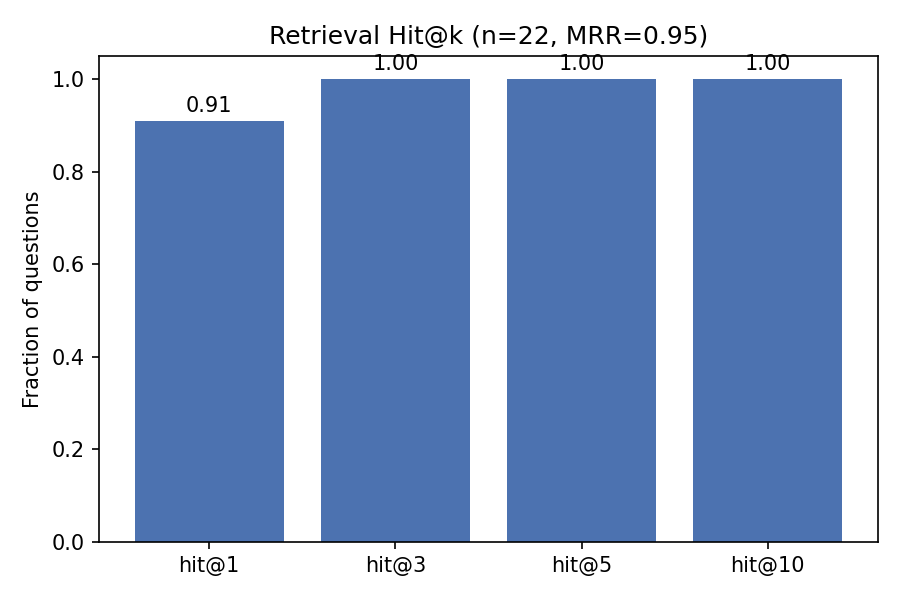
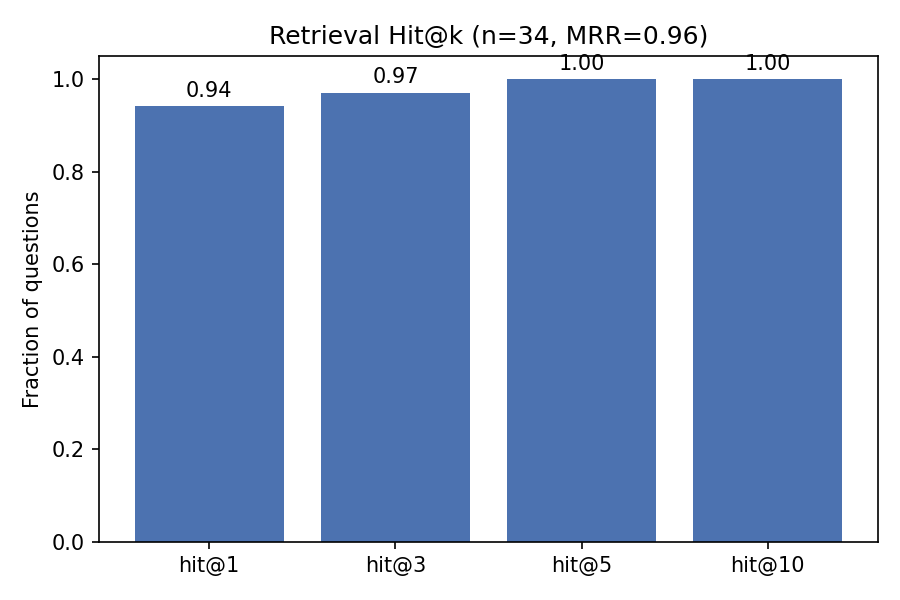
Add README with results, experiment log and enterprise roadmap

diff --git a/README.md b/README.md
@@ -1,3 +1,225 @@
 # Manual RAG Assistant
 
-Cited question answering over instruction manuals. Work in progress.
+**Upload an instruction manual, ask a question in plain English, and get the answer with the exact page, section and lines it came from. No need to read the whole manual.**
+
+![Python](https://img.shields.io/badge/python-3.10%2B-blue)
+![Tests](https://img.shields.io/badge/tests-82%20passing-brightgreen)
+![License](https://img.shields.io/badge/license-MIT-green)
+
+---
+
+## Demo
+
+Real output for the GE JVM3160 microwave manual (46 pages, English and Spanish):
+
+```
+$ python main.py ask "One of the lights below the oven is not working. How do I make it work?" \
+      --file data/raw/ge_microwave_jvm3160.pdf
+
+Using: ge_microwave_jvm3160.pdf (GE JVM3160 Microwave Oven)
+
+**Answer:** To restore the light below the oven, replace the cooktop light/nite light bulb.
+The manual specifies a 120 volt, 50 watt (max.) halogen bulb.
+
+**Location in Manual:**
+- Manual: ge_microwave_jvm3160.pdf (GE JVM3160 Microwave Oven)
+- Page: 17
+- Section: Cooktop Light/Nite Light
+- Lines: 5-13
+
+**Steps:**
+1. Disconnect the power at the main fuse or circuit breaker panel, or pull the plug.
+2. Remove the screw from the side of the light compartment cover and lower the cover until it stops.
+3. Be sure the bulb is cool before removing. Break the adhesive seal by gently unscrewing the bulb.
+4. Screw in the new bulb, then raise the light cover and replace the screw. Connect electrical power to the oven.
+```
+
+The question never says "cooktop", "nite light" or "bulb". Retrieval works on meaning, so it still ranks the right section first.
+
+And when the manual doesn't have the answer, it says so instead of inventing one:
+
+```
+$ python main.py ask "How do I connect this microwave to WiFi?"
+The manual does not cover this.
+```
+
+## Two modes: today and the enterprise path
+
+| | Mode 1: Ad hoc (built and verified) | Mode 2: Library (designed for, partly built) |
+|---|---|---|
+| Use case | One person, one manual, answers right now | A team with ~200 domain PDFs (manuals, SOPs, service guides) |
+| How documents get in | Upload in the web app, or `--file` on the CLI | Bulk ingest a folder: `ingest --path docs/` |
+| What gets searched | Only that manual | The whole library, or filtered by manual |
+| Limits | 50 pages, text based (keeps the demo fast and cheap) | No page limit for curated ingestion |
+| Status | ✅ Working end to end | ✅ Folder ingest, incremental re-indexing, per-manual citations, cross-manual evaluation. See the roadmap for what scale needs. |
+
+## How it works
+
+```mermaid
+flowchart LR
+    A[Manual<br/>PDF, scan, DOCX, EPUB, TXT] --> B[Extract to Markdown<br/>pymupdf4llm + Tesseract OCR]
+    B --> C[Clean<br/>broken glyphs, footers,<br/>page numbers, TOC lines]
+    C --> D[Chunk by section<br/>keep page + lines]
+    D --> E[Label each chunk<br/>with product name]
+    E --> F[(ChromaDB<br/>MiniLM embeddings)]
+    Q[Question] --> G[Top 5 chunks<br/>from that manual]
+    F --> G
+    G --> H[LLM: answer only from context,<br/>cite manual, page, section, lines]
+    H --> I[Cited answer]
+```
+
+1. **Extract.** Each page becomes Markdown with `pymupdf4llm`. Scanned pages and pages with broken fonts are OCR'd with Tesseract.
+2. **Clean.** Remove undecodable glyphs, markup, repeated footers, page numbers and table of contents lines. These are detected generically, so nothing is hardcoded per manual.
+3. **Chunk by structure.** A new chunk starts at each heading, so numbered steps stay together. Every chunk keeps its page, section and line range, which is what makes exact citations possible.
+4. **Label every chunk with its product.** At upload, the LLM reads the first pages once and names the product (e.g. "MR. Coffee 4-cup CoffeeMaker"). That name is prefixed to every chunk before embedding (contextual retrieval).
+5. **Retrieve.** `all-MiniLM-L6-v2` embeddings in a persistent ChromaDB collection. Unchanged files are skipped on re-ingest using a file hash.
+6. **Answer.** The top 5 chunks go to `nvidia/nemotron-3.5-lightning-30b-a3b` (via NVIDIA NIM, with a fallback model). The prompt requires answers only from the context, real citations, steps only when the manual gives steps, and a one sentence refusal when the answer isn't there.
+
+## Results
+
+Retrieval evaluated on **34 hand labelled questions** across **2 manuals** (GE microwave, Mr. Coffee coffeemaker), in two modes:
+
+| Metric | Within the question's manual | Across all manuals (right manual + page) |
+|---|---|---|
+| Hit@1 | **0.94** | **0.94** |
+| Hit@3 | 0.97 | 0.97 |
+| Hit@5 | **1.00** | **1.00** |
+| MRR | **0.96** | **0.96** |
+
+Hit@5 = 1.00 means the right page was always among the 5 chunks the LLM reads.
+
+![Retrieval Hit@k within manual](reports/figures/retrieval_hit_at_k.png)
+![Retrieval Hit@k across manuals](reports/figures/retrieval_hit_at_k_all_manuals.png)
+
+**Answer behaviour checks** (run after every prompt or model change): real steps kept word for word (bulb replacement), no invented steps when the manual lists causes (arcing), a clean refusal for out of scope questions (WiFi), and no facts crossing between products when two manuals match (warranty).
+
+**Speed:** about **4 seconds** per answer, down from about 28 seconds (see the experiment log).
+
+## Experiment log
+
+Every change was measured against the same evaluation set. Not everything worked, and that's recorded too.
+
+| # | Hypothesis / change | Result |
+|---|---|---|
+| 1 | **Original notebook bug:** short numbered steps like `1. Press Cook Time.` were detected as headings, which removed them from the indexed text | Fixed with stricter heading rules plus a regression test |
+| 2 | Broken font glyphs, `<mark>` tags and repeated footers dilute embeddings | Text is much cleaner; ranking roughly unchanged |
+| 3 | Baseline with 2 manuals | Hit@1 **0.85** within / **0.82** across, MRR 0.91 / 0.89 |
+| 4 | Table of contents pages attract every question ("keyword magnets") | **Disproved.** No change. The first version of the fix didn't even fire, because the TOC was extracted as a Markdown table; caught by checking the real extracted text |
+| 5 | The real cause: chunks say "this product", not the product name, so "coffee maker warranty" matched the intro page instead of the warranty page | **Confirmed.** Labelling every chunk with its product: Hit@1 **0.85 → 0.94** within, **0.82 → 0.94** across, MRR 0.91 → 0.96 |
+| 6 | Were the labels leaking answers? The title prompt's examples were the two test manuals | Swapped to unrelated examples; scores held at 0.94 |
+| 7 | Prompt template always showed a "Steps" section, so the model invented remedies for a list of causes | Rules: steps only when the manual gives them, never invent advice. Regression test added |
+| 8 | Ambiguous question matching two manuals: the reasoning model spent its entire token budget deliberating and returned nothing | Clear rule (one block per manual), larger token budget, and a guard so a blank answer never reaches users |
+| 9 | Reasoning makes answers slow (~28s). Tested 4 ways to turn it off on one question | Only `enable_thinking: false` worked: **27.8s → 4.1s**. `/no_think` and "low effort" were ignored by this model |
+| 10 | With reasoning off, a two-manual answer cited a coffee maker fact under the microwave | Code now groups chunks by manual before the LLM sees them. Regression test with the real case |
+| 11 | With reasoning off, the product title for a scanned cover was guessed ("12-Cup Programmable" for a 4-cup model) | Reasoning kept on for the one-time title step only, and the prompt forbids guessing model numbers |
+
+## Why RAG instead of pasting the whole manual into an LLM?
+
+| | Paste the whole manual | RAG (this project) |
+|---|---|---|
+| 10 page manual | Works | Works |
+| 500 page manual | Slow and costly on every question; quality drops in long contexts | Only ~5 relevant chunks are sent |
+| Exact citations (page, section, lines) | The model has to guess | Come from stored metadata |
+| A library of 200 documents | You have to know which one to paste | It finds the right one |
+| Cost per question | Grows with document size | Roughly constant |
+
+## Quick start
+
+```bash
+git clone https://github.com/jasferdavidgabriel/manual_rag_assistant.git
+cd manual_rag_assistant
+python -m venv .venv && source .venv/bin/activate
+pip install -r requirements.txt
+
+cp .env.example .env        # add your NVIDIA_API_KEY (free at build.nvidia.com)
+# For scanned PDFs: brew install tesseract  (macOS)  or  apt install tesseract-ocr  (Linux)
+```
+
+**Ad hoc (Mode 1): one manual, ask right away**
+
+```bash
+python main.py ask "How do I clean it with vinegar?" --file path/to/manual.pdf
+python main.py ask "How often should I descale it?"      # continues with the same manual
+python main.py chat --file path/to/manual.pdf           # interactive
+```
+
+**Web app**
+
+```bash
+python app.py            # http://127.0.0.1:7860
+python app.py --share    # temporary public link (e.g. from Colab)
+```
+Upload a manual, wait for "Ready", then ask. Answers are scoped to the manual you uploaded in your session, and the sources behind each answer are one click away.
+
+**Library (Mode 2): many manuals**
+
+```bash
+python main.py ingest --path docs/                  # index a folder (unchanged files are skipped)
+python main.py list                                 # what's indexed
+python main.py ask "What is the warranty?" --all    # search every manual
+python main.py search "error code E3" --all         # retrieval only, no LLM (debugging)
+```
+
+**Evaluate and test**
+
+```bash
+python main.py evaluate      # Hit@k and MRR, within and across manuals; saves charts
+pip install pytest && python -m pytest tests -q
+```
+
+All settings (models, chunk size, top k, page limits, the reasoning switch) live in [`configs/config.yaml`](configs/config.yaml). Any OpenAI compatible endpoint works by changing `llm.base_url` and `llm.model`.
+
+## Project structure
+
+```
+manual_rag_assistant/
+├── app.py                    # Gradio web app (one manual per session)
+├── main.py                   # CLI: ingest, list, search, ask, chat, evaluate
+├── configs/config.yaml       # every tunable setting
+├── src/manual_rag/
+│   ├── ingestion.py          # extraction per format, cleaning, chunking, labels
+│   ├── indexing.py           # embeddings + persistent ChromaDB
+│   ├── retrieval.py          # search with similarity scores and manual filter
+│   ├── generation.py         # prompt, grouping by manual, LLM with fallbacks
+│   ├── evaluation.py         # Hit@k, MRR, charts
+│   ├── pipeline.py           # ingest / ask / evaluate / ad hoc file handling
+│   └── ui.py                 # upload checks (page limit, mostly-images) and formatting
+├── tests/                    # 82 unit tests, no GPU, model or API key needed
+├── data/eval/questions.jsonl # 34 labelled evaluation questions
+└── reports/figures/          # evaluation charts
+```
+
+## Tech stack
+
+Python · pymupdf4llm / PyMuPDF · Tesseract OCR · python-docx · langdetect · Sentence Transformers (all-MiniLM-L6-v2) · ChromaDB · NVIDIA NIM (Nemotron 3.5 Lightning, OpenAI compatible API) · Gradio · pytest
+
+## Known limitations
+
+- **Small evaluation:** 34 questions over 2 manuals, written by the author. Treat the metrics as evidence for the design choices, not as a benchmark.
+- **Part numbers and codes** ("ND4", "JX36BSS") are the weak spot of meaning-based search. This is the one remaining miss in the evaluation.
+- **Local ChromaDB** is single-machine. A process holding the index open while another re-indexes can see stale results (guarded against, not solved).
+- **Word documents** have no fixed pages, so their citations use section and lines only.
+- **The `--share` link** uses your API key for every visitor's questions. It's fine for demos, not for public hosting.
+
+## Roadmap to Mode 2 (enterprise library)
+
+| Need at ~200 documents | Plan |
+|---|---|
+| Codes, part numbers, error codes | Hybrid search (BM25 + embeddings) |
+| Many near matches across documents | A cross-encoder reranker over the top 20 |
+| "Only the 2024 service manuals" | Metadata filters (department, product line, version) |
+| Many concurrent users | A server based vector database (pgvector or Qdrant) and an API service (FastAPI) |
+| Not everyone should see everything | Authentication and per-document access control |
+| Trustworthy metrics for the domain | An evaluation set built from real user questions, run in CI |
+| Slow OCR on bulk uploads | Background ingestion jobs |
+| Manuals with diagrams | Image extraction with captions from a vision model, or page-image retrieval |
+
+## Author
+
+**Jasfer**, MS in Analytics (Applied Machine Intelligence), Northeastern University
+
+[LinkedIn](https://www.linkedin.com/in/jasferdavidgabriel) · [GitHub](https://github.com/jasferdavidgabriel)
+
+## License
+
+Code released under the [MIT License](LICENSE). The manuals used for evaluation belong to their manufacturers and are not included in this repository.
